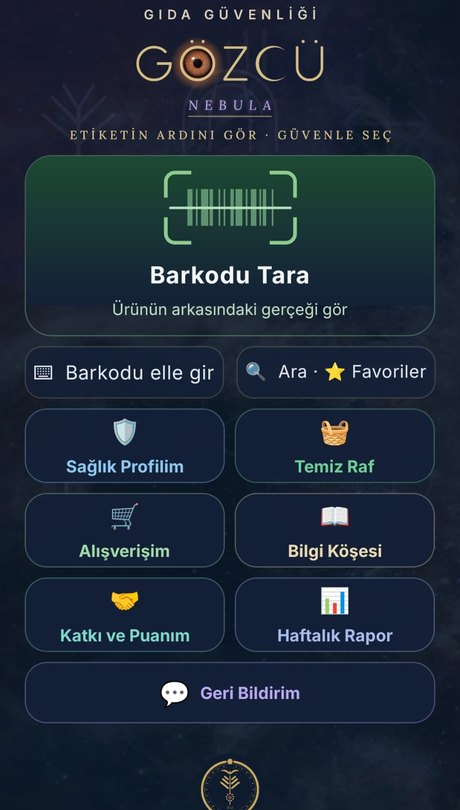
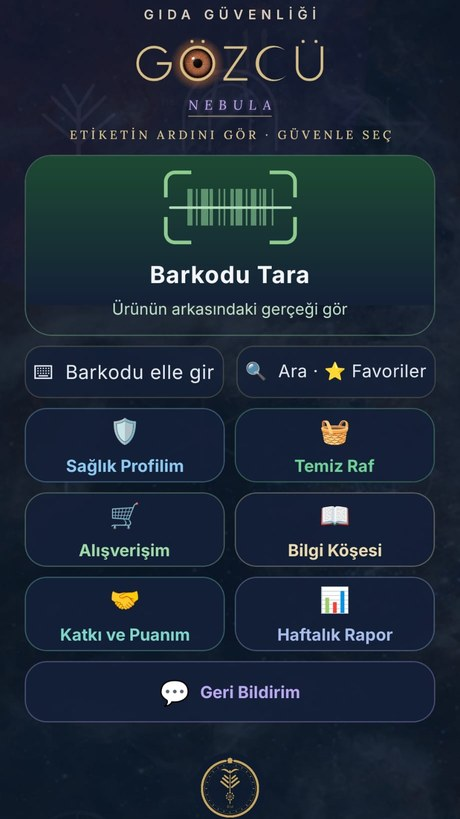
Add files via upload

diff --git a/index.html b/index.html
@@ -1,15 +1,22 @@
 <!doctype html>
 <html lang="tr"><head><meta charset="utf-8"><meta name="viewport" content="width=device-width,initial-scale=1">
 <title>Gözcü Nebula · Etiketin ardını gör</title><meta name="description" content="Gözcü Nebula: barkodu okut, gıdanın içindekilerini, katkı maddelerini, alerjenleri ve besin değerlerini resmî kaynaklarla karşılaştır. Ücretsiz, reklamsız.">
-<link rel="icon" href="amblem.png"><link rel="stylesheet" href="stil.css"></head>
+<meta http-equiv="Content-Security-Policy" content="default-src 'self'; img-src 'self' data:; style-src 'self'; script-src 'none'; object-src 'none'; base-uri 'self'; form-action 'none'">
+<meta name="referrer" content="no-referrer"><meta name="theme-color" content="#111c2e">
+<meta property="og:type" content="website"><meta property="og:site_name" content="Gözcü Nebula">
+<meta property="og:title" content="Gözcü Nebula · Etiketin ardını gör"><meta property="og:description" content="Gözcü Nebula: barkodu okut, gıdanın içindekilerini, katkı maddelerini, alerjenleri ve besin değerlerini resmî kaynaklarla karşılaştır. Ücretsiz, reklamsız.">
+<meta property="og:image" content="https://gozcunebula.com/paylasim.png"><meta property="og:url" content="https://gozcunebula.com/index.html">
+<link rel="canonical" href="https://gozcunebula.com/index.html">
+<link rel="icon" href="amblem.png"><link rel="apple-touch-icon" href="apple-touch-icon.png"><link rel="stylesheet" href="stil.css"></head>
 <body><header><div class="kap">
 <a href="index.html" class="logo"><img src="gozcu_yazi.png" alt="Gözcü Nebula"></a>
 <nav><a href="index.html" data-s="index" class="aktif">Ana sayfa</a><a href="uretici.html" data-s="uretici">Üreticiler</a><a href="gizlilik.html" data-s="gizlilik">Gizlilik</a><a href="kosullar.html" data-s="kosullar">Koşullar</a></nav>
 </div></header>
 <main class="kap">
-<section class="kahraman2">
+<section class="kahraman2"><div class="bulut" aria-hidden="true"></div>
 <div>
-<div class="ust"><img src="amblem.png" alt="Gözcü amblemi"><div><div class="nebula">GÖZCÜ NEBULA</div><div class="slogan" style="margin-top:4px">ETİKETİN ARDINI GÖR · GÜVENLE SEÇ</div></div></div>
+<div class="marka"><img class="amb" src="amblem.png" alt="Gözcü amblemi"><div><img class="yazi2" src="gozcu_yazi.png" alt="GÖZCÜ"><div class="nebula">NEBULA</div></div></div>
+<div class="slogan sl2">ETİKETİN ARDINI GÖR · GÜVENLE SEÇ</div>
 <h1>Barkodu okut,<br><span>etiketin ardını gör.</span></h1>
 <p class="giris">Gözcü, gıda ürününün içindekilerini, katkı maddelerini, alerjenlerini ve besin değerlerini resmî kurumların kararlarıyla karşılaştırır ve sonucu üç ışıkla, sade bir dille gösterir.</p>
 <div class="rozetler"><span>Ücretsiz</span><span>Reklamsız</span><span>Kaynak gösterir</span><span>Sağlık bilgin telefonunda kalır</span></div>

diff --git a/404.html b/404.html
@@ -1,0 +1,21 @@
+<!doctype html>
+<html lang="tr"><head><meta charset="utf-8"><meta name="viewport" content="width=device-width,initial-scale=1">
+<title>Sayfa bulunamadı · Gözcü Nebula</title><meta name="description" content="Aradığınız sayfa bulunamadı.">
+<meta http-equiv="Content-Security-Policy" content="default-src 'self'; img-src 'self' data:; style-src 'self'; script-src 'none'; object-src 'none'; base-uri 'self'; form-action 'none'">
+<meta name="referrer" content="no-referrer"><meta name="theme-color" content="#111c2e">
+<meta property="og:type" content="website"><meta property="og:site_name" content="Gözcü Nebula">
+<meta property="og:title" content="Sayfa bulunamadı · Gözcü Nebula"><meta property="og:description" content="Aradığınız sayfa bulunamadı.">
+<meta property="og:image" content="https://gozcunebula.com/paylasim.png"><meta property="og:url" content="https://gozcunebula.com/404.html">
+<link rel="canonical" href="https://gozcunebula.com/404.html">
+<link rel="icon" href="amblem.png"><link rel="apple-touch-icon" href="apple-touch-icon.png"><link rel="stylesheet" href="stil.css"></head>
+<body><header><div class="kap">
+<a href="index.html" class="logo"><img src="gozcu_yazi.png" alt="Gözcü Nebula"></a>
+<nav><a href="index.html" data-s="index">Ana sayfa</a><a href="uretici.html" data-s="uretici">Üreticiler</a><a href="gizlilik.html" data-s="gizlilik">Gizlilik</a><a href="kosullar.html" data-s="kosullar">Koşullar</a></nav>
+</div></header>
+<main class="kap"><div class="ortala" style="padding:70px 0"><h1>Sayfa bulunamadı</h1><p class="not">Aradığınız sayfa taşınmış ya da hiç var olmamış olabilir.</p><a class="dugme" href="index.html">Ana sayfaya dön</a></div></main><footer><div class="kap">
+<img class="muhur" src="kutlan.png" alt="Kutlan amblemi">
+<div class="yerli">Türkiye'de geliştirildi</div>
+<p>Gözcü Nebula · Ücretsizdir, reklam yoktur · Tıbbi tavsiye değildir</p>
+<p><a href="mailto:info@gozcunebula.com">info@gozcunebula.com</a> · <a href="uretici.html">Üreticiler</a> · <a href="gizlilik.html">Gizlilik ve KVKK</a> · <a href="kosullar.html">Kullanım koşulları</a></p>
+</div></footer>
+</body></html>

diff --git a/gizlilik.html b/gizlilik.html
@@ -1,7 +1,13 @@
 <!doctype html>
 <html lang="tr"><head><meta charset="utf-8"><meta name="viewport" content="width=device-width,initial-scale=1">
 <title>Gizlilik politikası ve KVKK aydınlatma metni · Gözcü Nebula</title><meta name="description" content="Gözcü Nebula gizlilik politikası ve 6698 sayılı KVKK kapsamında aydınlatma metni.">
-<link rel="icon" href="amblem.png"><link rel="stylesheet" href="stil.css"></head>
+<meta http-equiv="Content-Security-Policy" content="default-src 'self'; img-src 'self' data:; style-src 'self'; script-src 'none'; object-src 'none'; base-uri 'self'; form-action 'none'">
+<meta name="referrer" content="no-referrer"><meta name="theme-color" content="#111c2e">
+<meta property="og:type" content="website"><meta property="og:site_name" content="Gözcü Nebula">
+<meta property="og:title" content="Gizlilik politikası ve KVKK aydınlatma metni · Gözcü Nebula"><meta property="og:description" content="Gözcü Nebula gizlilik politikası ve 6698 sayılı KVKK kapsamında aydınlatma metni.">
+<meta property="og:image" content="https://gozcunebula.com/paylasim.png"><meta property="og:url" content="https://gozcunebula.com/gizlilik.html">
+<link rel="canonical" href="https://gozcunebula.com/gizlilik.html">
+<link rel="icon" href="amblem.png"><link rel="apple-touch-icon" href="apple-touch-icon.png"><link rel="stylesheet" href="stil.css"></head>
 <body><header><div class="kap">
 <a href="index.html" class="logo"><img src="gozcu_yazi.png" alt="Gözcü Nebula"></a>
 <nav><a href="index.html" data-s="index">Ana sayfa</a><a href="uretici.html" data-s="uretici">Üreticiler</a><a href="gizlilik.html" data-s="gizlilik" class="aktif">Gizlilik</a><a href="kosullar.html" data-s="kosullar">Koşullar</a></nav>

diff --git a/uretici.html b/uretici.html
@@ -1,7 +1,13 @@
 <!doctype html>
 <html lang="tr"><head><meta charset="utf-8"><meta name="viewport" content="width=device-width,initial-scale=1">
 <title>Üreticiler için · Gözcü Nebula</title><meta name="description" content="Ürünlerinizin etiket bilgisini Gözcü Nebula'ya ücretsiz iletin; tek tek ya da toplu.">
-<link rel="icon" href="amblem.png"><link rel="stylesheet" href="stil.css"></head>
+<meta http-equiv="Content-Security-Policy" content="default-src 'self'; img-src 'self' data:; style-src 'self'; script-src 'none'; object-src 'none'; base-uri 'self'; form-action 'none'">
+<meta name="referrer" content="no-referrer"><meta name="theme-color" content="#111c2e">
+<meta property="og:type" content="website"><meta property="og:site_name" content="Gözcü Nebula">
+<meta property="og:title" content="Üreticiler için · Gözcü Nebula"><meta property="og:description" content="Ürünlerinizin etiket bilgisini Gözcü Nebula'ya ücretsiz iletin; tek tek ya da toplu.">
+<meta property="og:image" content="https://gozcunebula.com/paylasim.png"><meta property="og:url" content="https://gozcunebula.com/uretici.html">
+<link rel="canonical" href="https://gozcunebula.com/uretici.html">
+<link rel="icon" href="amblem.png"><link rel="apple-touch-icon" href="apple-touch-icon.png"><link rel="stylesheet" href="stil.css"></head>
 <body><header><div class="kap">
 <a href="index.html" class="logo"><img src="gozcu_yazi.png" alt="Gözcü Nebula"></a>
 <nav><a href="index.html" data-s="index">Ana sayfa</a><a href="uretici.html" data-s="uretici" class="aktif">Üreticiler</a><a href="gizlilik.html" data-s="gizlilik">Gizlilik</a><a href="kosullar.html" data-s="kosullar">Koşullar</a></nav>

diff --git a/kosullar.html b/kosullar.html
@@ -1,7 +1,13 @@
 <!doctype html>
 <html lang="tr"><head><meta charset="utf-8"><meta name="viewport" content="width=device-width,initial-scale=1">
 <title>Kullanım koşulları · Gözcü Nebula</title><meta name="description" content="Gözcü Nebula kullanım koşulları.">
-<link rel="icon" href="amblem.png"><link rel="stylesheet" href="stil.css"></head>
+<meta http-equiv="Content-Security-Policy" content="default-src 'self'; img-src 'self' data:; style-src 'self'; script-src 'none'; object-src 'none'; base-uri 'self'; form-action 'none'">
+<meta name="referrer" content="no-referrer"><meta name="theme-color" content="#111c2e">
+<meta property="og:type" content="website"><meta property="og:site_name" content="Gözcü Nebula">
+<meta property="og:title" content="Kullanım koşulları · Gözcü Nebula"><meta property="og:description" content="Gözcü Nebula kullanım koşulları.">
+<meta property="og:image" content="https://gozcunebula.com/paylasim.png"><meta property="og:url" content="https://gozcunebula.com/kosullar.html">
+<link rel="canonical" href="https://gozcunebula.com/kosullar.html">
+<link rel="icon" href="amblem.png"><link rel="apple-touch-icon" href="apple-touch-icon.png"><link rel="stylesheet" href="stil.css"></head>
 <body><header><div class="kap">
 <a href="index.html" class="logo"><img src="gozcu_yazi.png" alt="Gözcü Nebula"></a>
 <nav><a href="index.html" data-s="index">Ana sayfa</a><a href="uretici.html" data-s="uretici">Üreticiler</a><a href="gizlilik.html" data-s="gizlilik">Gizlilik</a><a href="kosullar.html" data-s="kosullar" class="aktif">Koşullar</a></nav>

diff --git a/stil.css b/stil.css
@@ -65,3 +65,14 @@ footer p{margin:6px 0}
 .ekranlar figure{margin:0;text-align:center}
 .telefon.kucuk{width:220px}
 figcaption{margin-top:10px;color:var(--metin2);font-size:14px}
+/* 7 Eki: ucuncu tasarim - buyuk marka, bulutsu */
+.logo img{height:36px}
+.kahraman2{position:relative;isolation:isolate}
+.bulut{position:absolute;inset:-60px -50vw 0 -50vw;z-index:-1;background:linear-gradient(180deg,rgba(17,28,46,.55),rgba(17,28,46,.85) 75%,#111c2e),url(bulutsu.jpg) center/cover no-repeat}
+.marka{display:flex;align-items:center;gap:18px}
+.marka .amb{width:88px;height:auto;filter:drop-shadow(0 0 18px rgba(214,188,133,.25))}
+.marka .yazi2{width:250px;max-width:58vw;display:block}
+.marka .nebula{letter-spacing:.6em;padding-left:.2em;font-size:16px;margin-top:4px;text-align:center}
+.sl2{font-size:12.5px!important;letter-spacing:.2em;margin-top:14px;white-space:normal}
+@media (max-width:760px){.marka .amb{width:64px}.marka .yazi2{width:200px}}
+html,body{overflow-x:clip}
